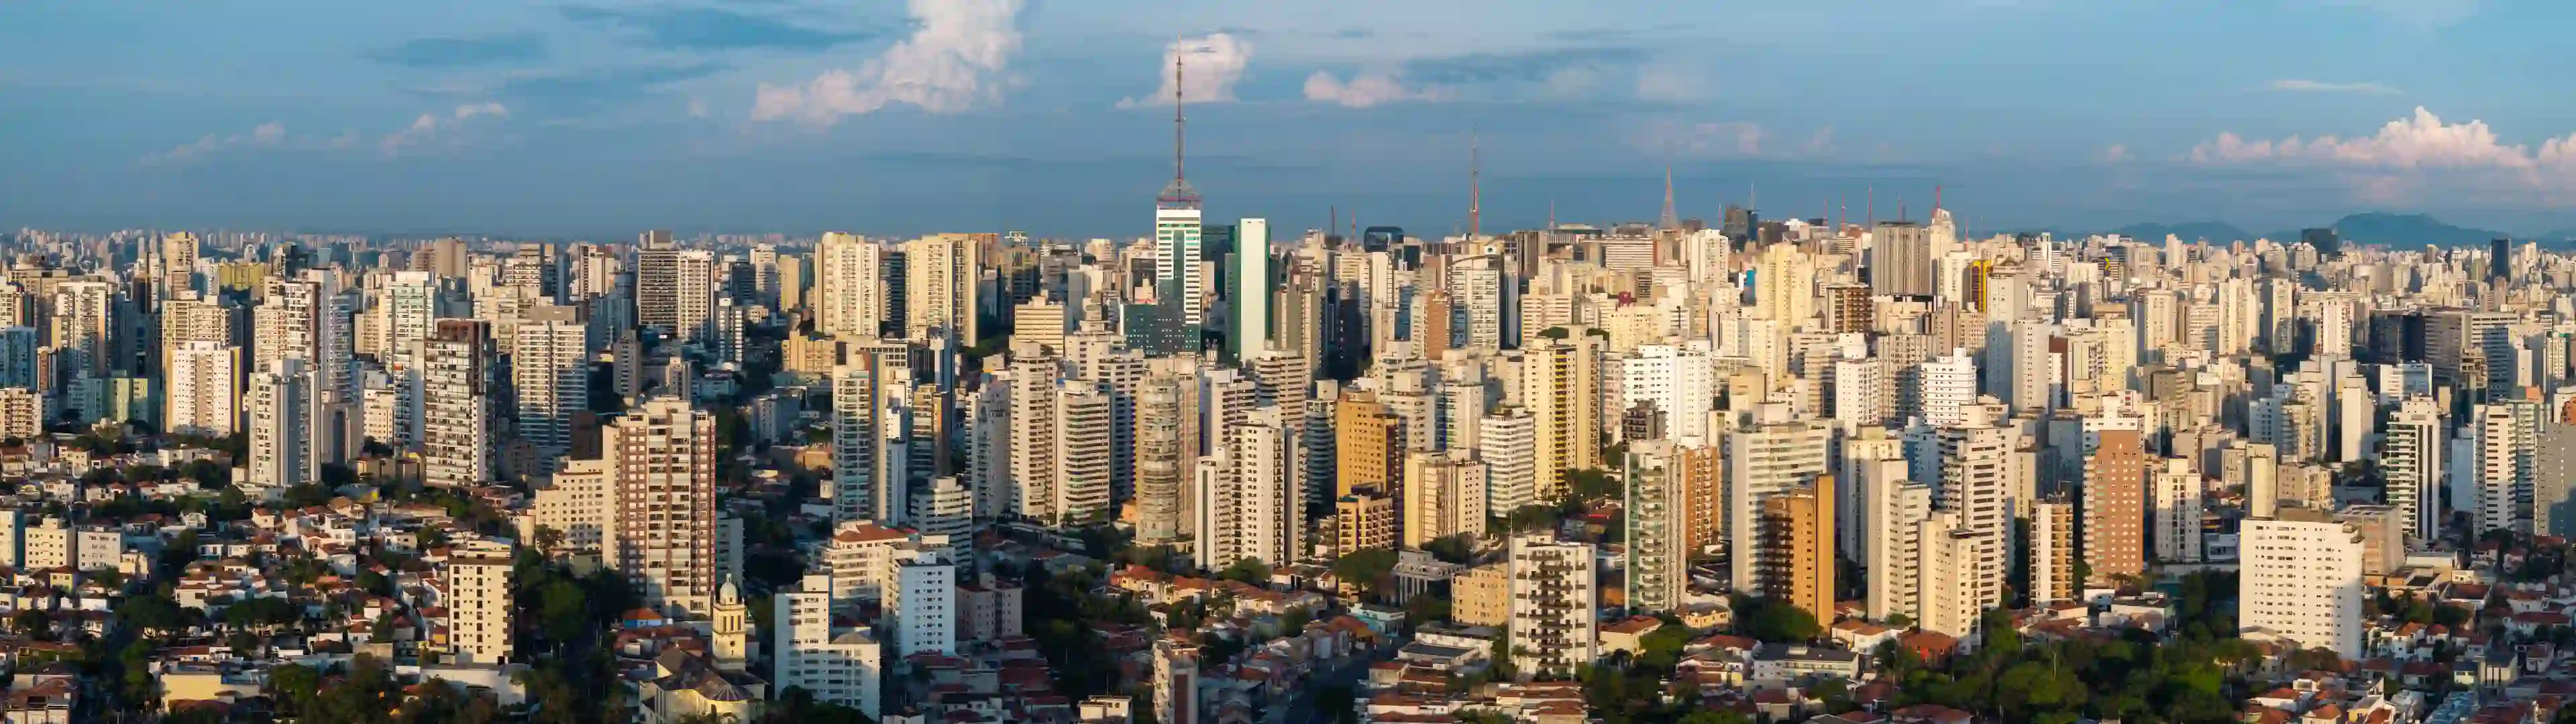
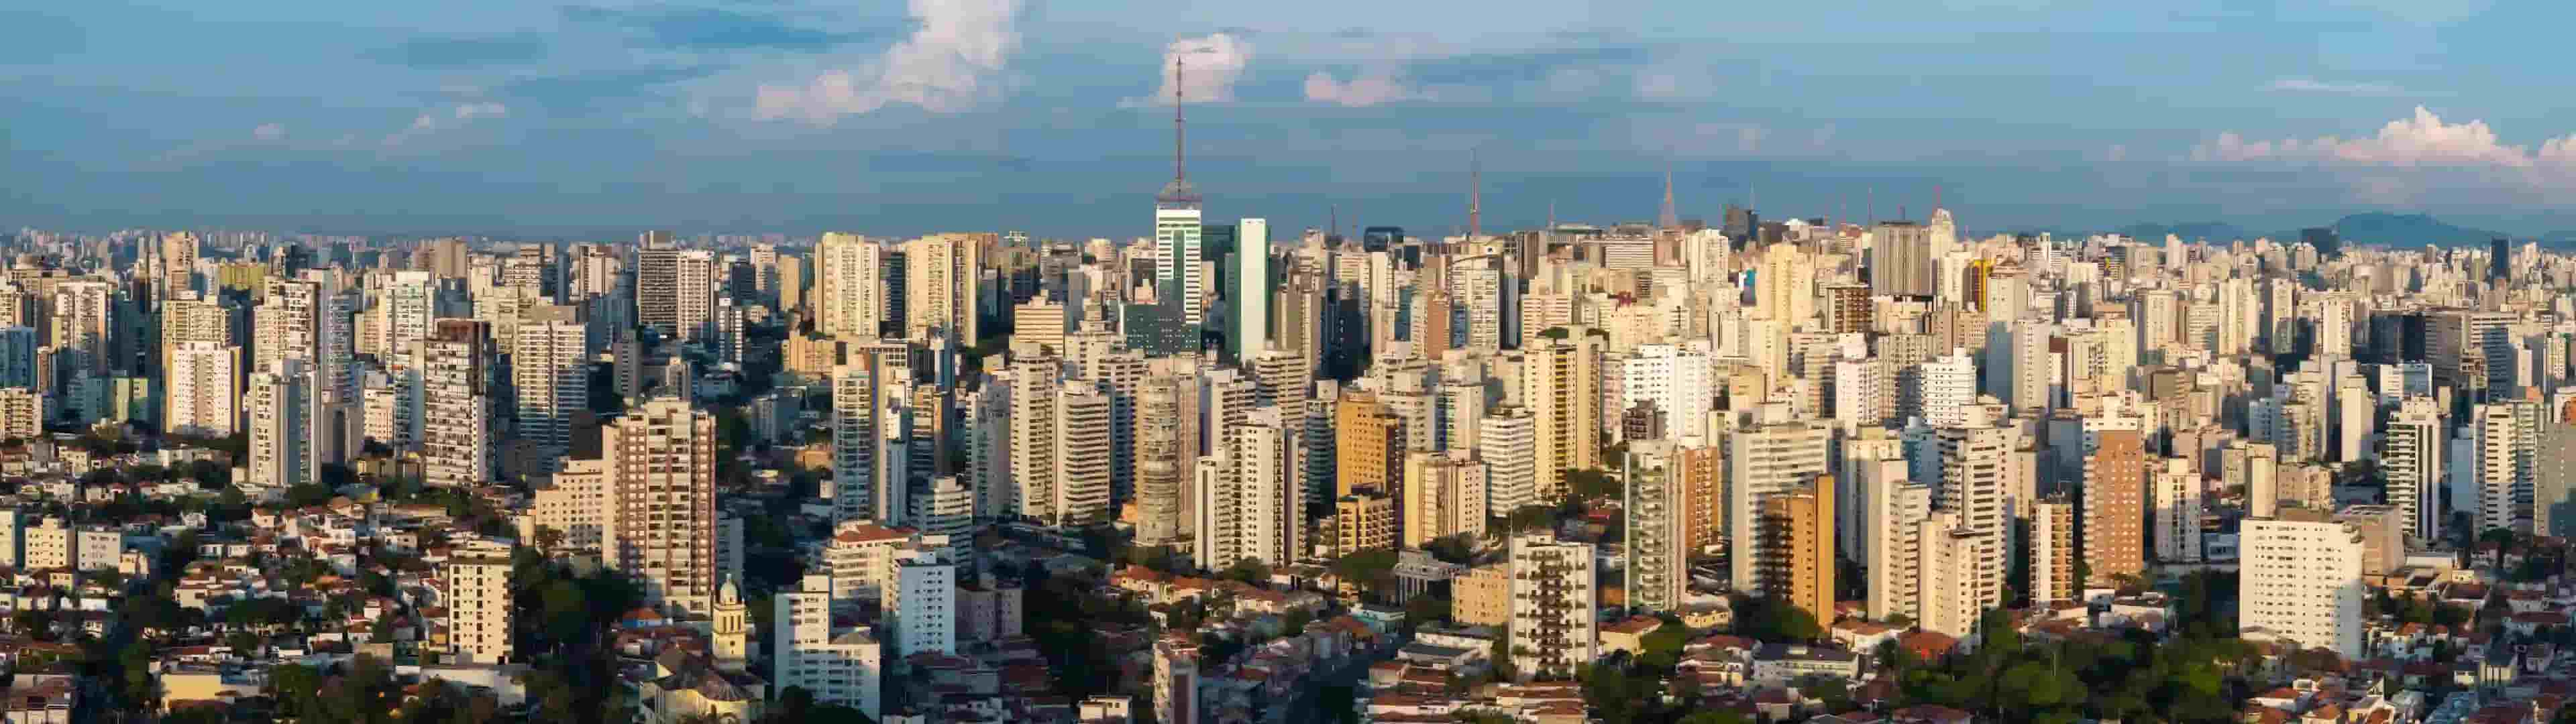
corrections

diff --git a/styles/styles.css b/styles/styles.css
@@ -1,5 +1,6 @@
 main {
-    width: 840px;
+    max-width: 840px;
+    min-width: none;
 }
 
 main img {

diff --git a/index.html b/index.html
@@ -4,7 +4,7 @@
 <head>
     <meta charset="UTF-8">
     <meta name="viewport" content="width=device-width, initial-scale=1.0">
-    <title>Matheus Torres | WDD 130</title>
+    <title>WDD 130 | Matheus Torres</title>
     <meta name="description"
       content="Matheus Torres | Web Design Development Student | Practicing Web Design">
     <meta name="author" content="Matheus Torres">